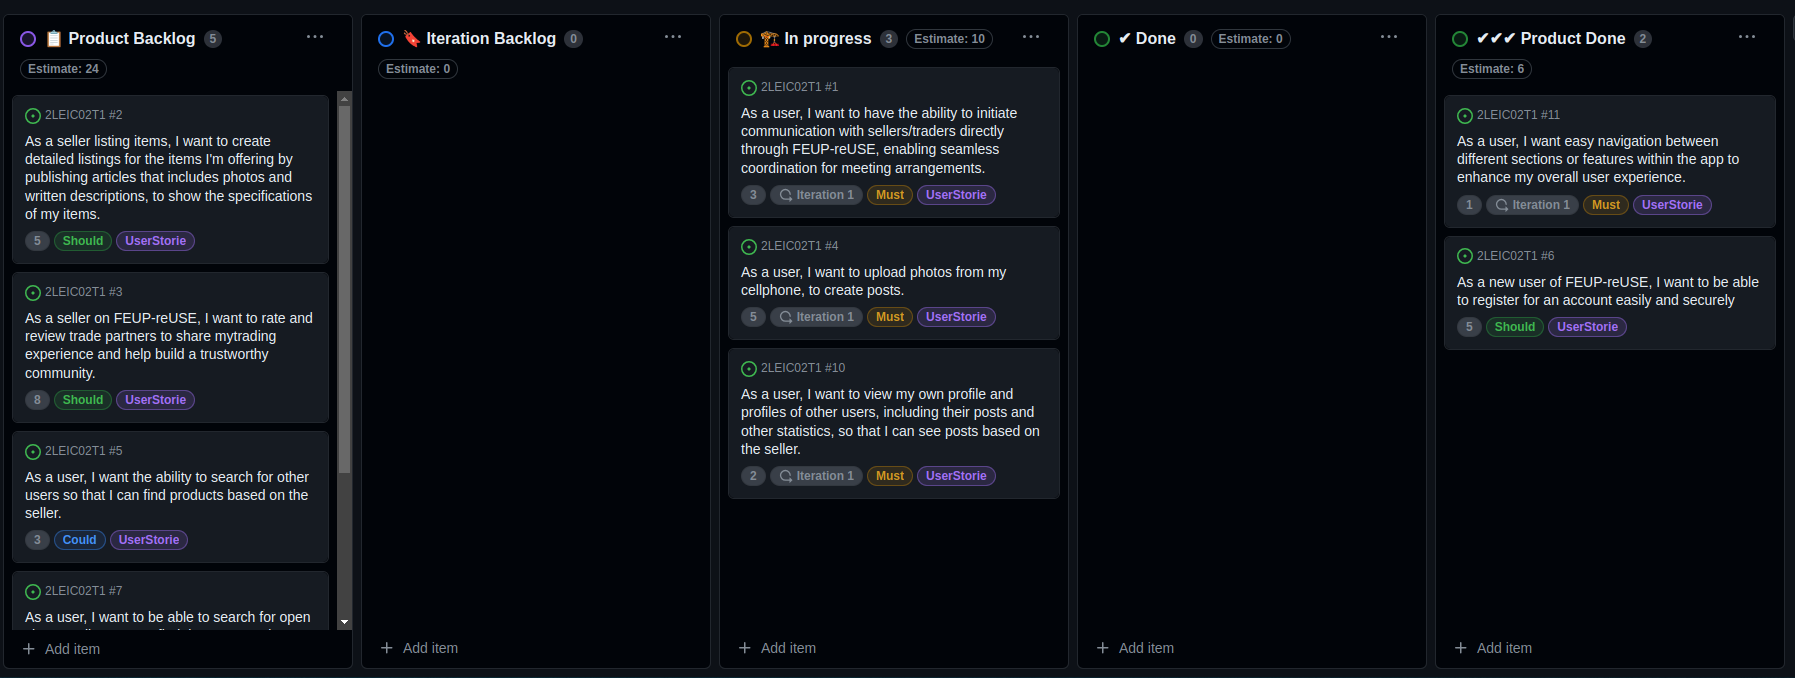
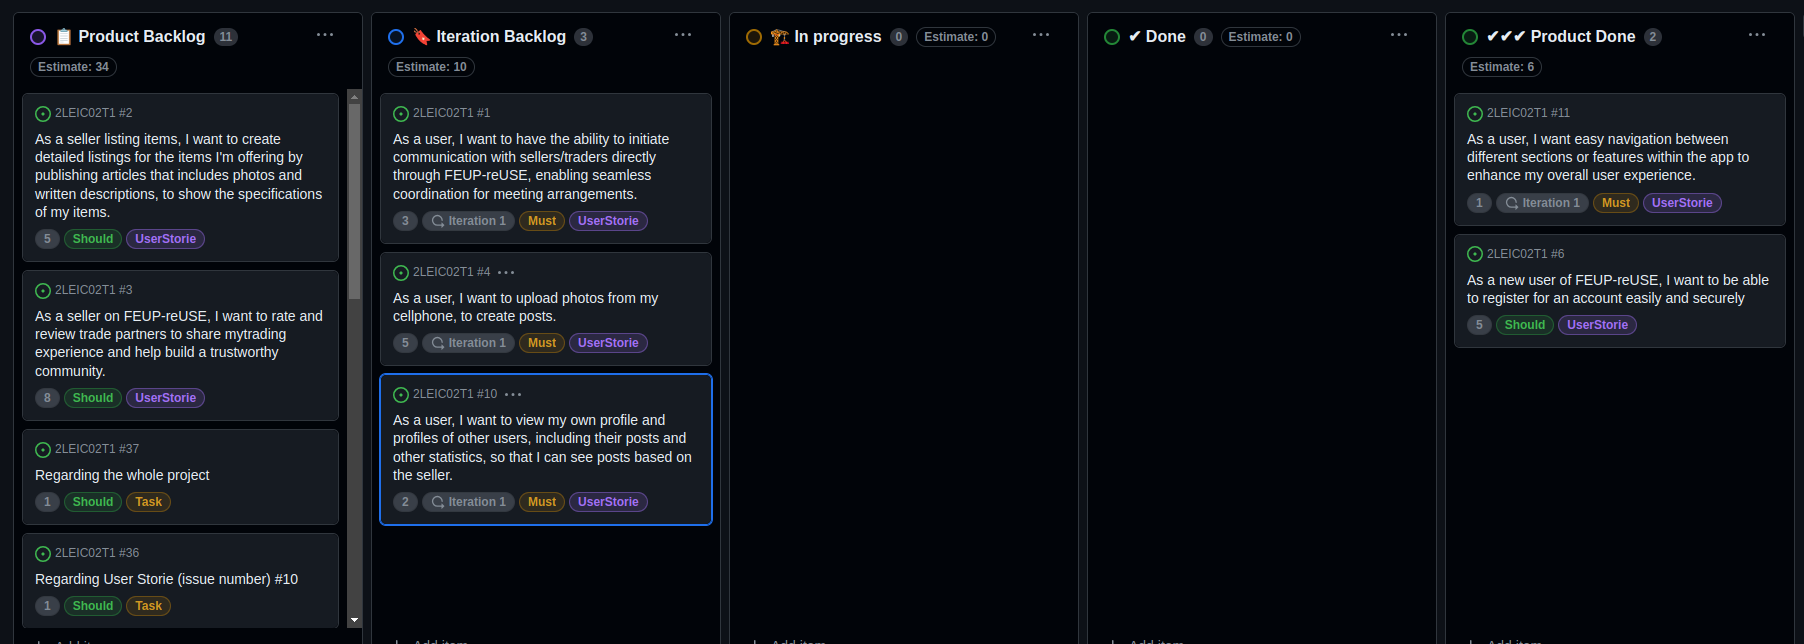
readme

diff --git a/README.md b/README.md
@@ -162,4 +162,33 @@ You can find below information and references related with the project managemen
 > <p>Avoid neglecting the quality of designs and user experience. It's crucial to prioritize addressing these aspects in future sprints to ensure the success and satisfaction of our users.</p>
 > 
 > 
+
+
+## Iteration 2
+
+> ## Plans:
+> ### Development Board
+> <p>Start:</p>
+> <img src="/images/BacklogIteration2Start.png">
+> <br>
+> <p>End:</p>
+> <img src="/images/BacklogIteration2End.png">
+>
+> ### Retrospective
+> <p>During this sprint, our team showcased remarkable adaptability, swiftly adjusting to unexpected challenges and maintaining a steady pace towards our objectives. Communication remained transparent and consistent, fostering a sense of unity and purpose among team members. These strengths were instrumental in overcoming obstacles and driving the project forward with efficiency and precision.</p>
+>
+> ## Start
+> 
+As we review our sprint, it's clear that our team displayed admirable collaboration and met our objectives. However, there are areas where our processes require refinement. We need to prioritize "smoothing edges," emphasizing the importance of attention to detail. This means ensuring that even the smallest details are functioning effectively in our project. 
+>
+> ## Continue
+> <p>Continue upholding the exceptional level of collaboration within the team, ensuring both clear communication and alignment. Additionally, concentrate on efficiently delivering key features and meeting sprint goals.</p>
+> 
+>
+> ## Stop
+> <p>Let's ensure we don't overlook the user experience. It's vital to prioritize enhancing this aspect in future sprints to ensure our users are not just satisfied, but delighted with our product.</p>
+> 
+> 
+ 
+
  
